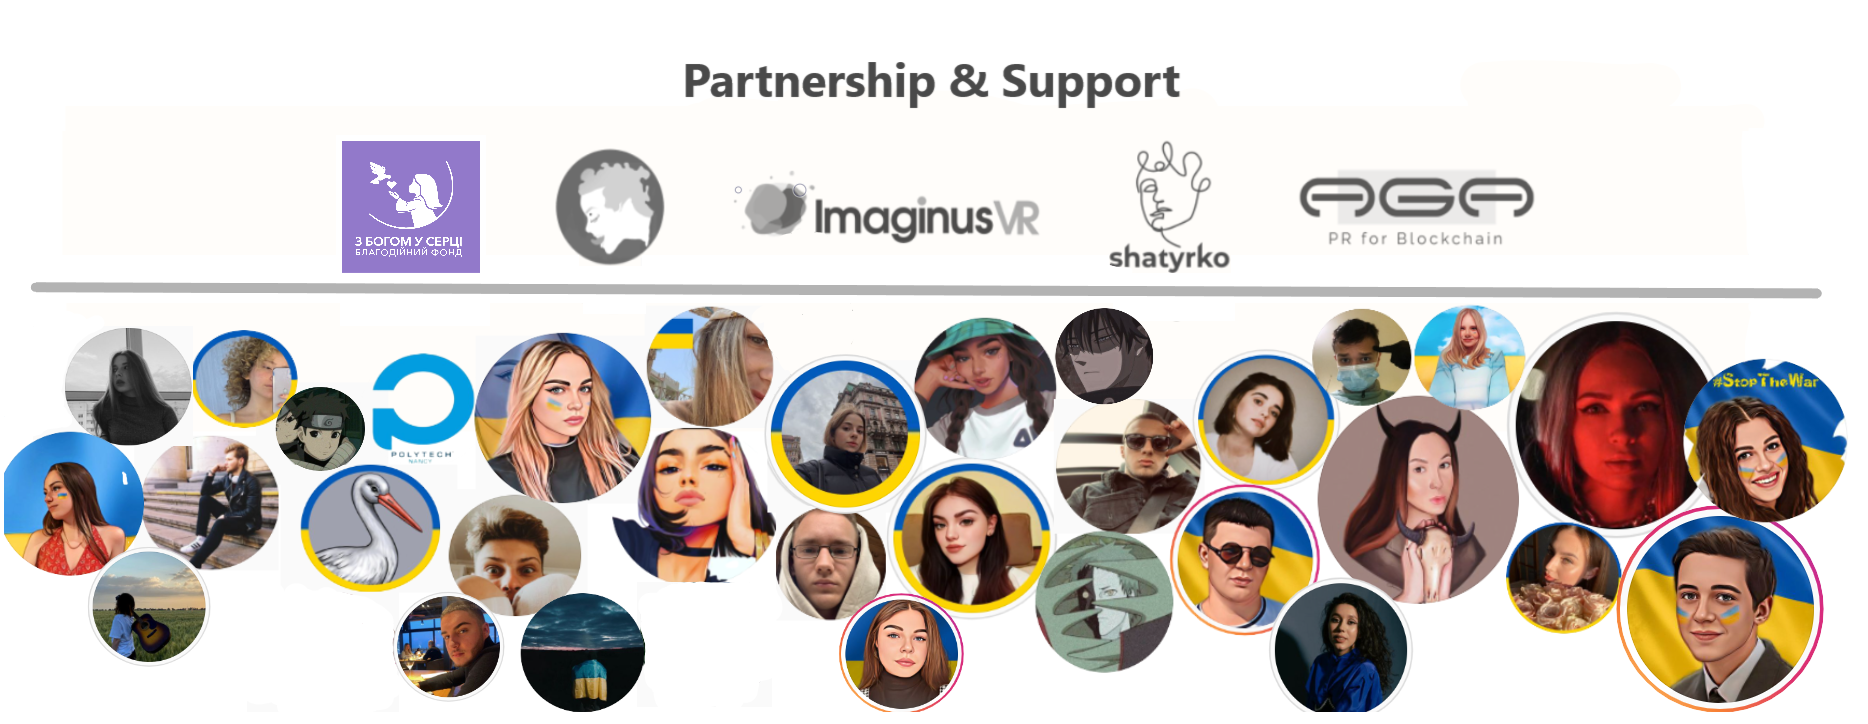
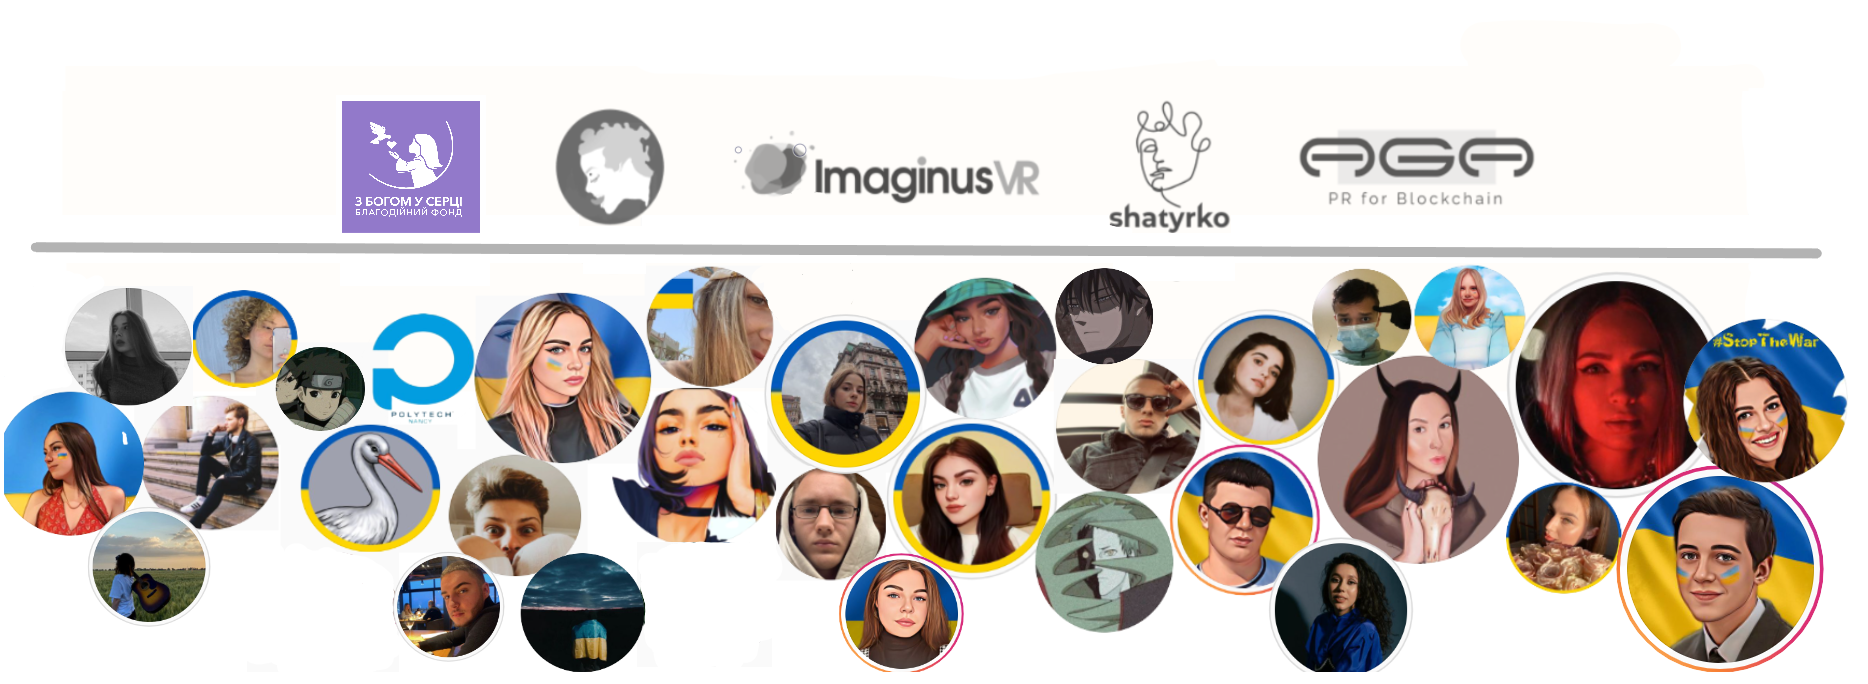
Add files via upload

diff --git a/index.html b/index.html
@@ -296,15 +296,36 @@
                 <div class="container">
                     
                     <div class="row">
-                    
+                        <div class="col-10 col-md-10 col-lg-7">
+                            <div class="container">
+                                <div class="row">
+                                    <div class="col-2"><img src="#" alt="" style="width:100%;"></div>
+                                    <div class="col-4 py-2"><img class="mx-auto rounded" src="images/birdn1.png" alt="" style="width:100%;"></div>
+                                    <div class="col-4 py-2"><img class="mx-auto rounded" src="images/birdn2.png" alt="" style="width:100%;"></div>
+                                    <div class="col-2"><img src="#" alt="" style="width:100%;"></div>
+                                    <div class="col-4 py-3"><img class="mx-auto rounded" src="images/birdn3.png" alt="" style="width:100%;"></div>
+                                    <div class="col-4 py-3"><img class="mx-auto rounded" src="images/birdn4.png" alt="" style="width:100%;"></div>
+                                    <div class="col-4 py-3"><img class="mx-auto rounded" src="images/birdn5.png" alt="" style="width:100%;"></div>
+                                </div>
+                            </div>
+                        </div>
+                        <div class="col-10 col-md-10 col-lg-5 align-items-center">
+                            <h3>Main objective or how it works</h3> <br>
+                            <p>
+                                In Lutsk we have some battalions which are not equipped enough, so technically speaking, the country can provide them only with weapons and they asked volunteer centers to support them. 
 
+                            </p>
+                            <p>
+                                Basically, we will complete (buy) all the required items on the list, deliver all of them to the foundation center, where soldiers will be equipped. The same for children, we are looking for useful humanitarian aid in EU and provide those in need. This achieves our main goal of helping the Ukrainian people and army. 
+                            </p>
+                        </div>
 
 
                     </div>
                 </div>
             </section>
 
-            <section class="page-section bg-light" id="questions">
+            <section class=" bg-light" id="questions">
                 <div class="text-center">
                     <h2 class="section-heading text-uppercase">PARTNERSHIP & SUPPORT</h2>
                     <svg width="360" height="5" viewBox="0 0 360 5" fill="none" xmlns="http://www.w3.org/2000/svg">
@@ -315,7 +336,9 @@
                 <div class="container">
                     
                     <div class="row">
-                    
+                        <div class="col-12 col-lg-12">
+                            <img src="images/Partnership.png" alt="" style="width:100%;">
+                        </div>
 
 
 
@@ -323,5 +346,50 @@
                 </div>
             </section>
             
+            <footer class="bg-dark text-center text-white">
+                <div class="container p-4 pb-0">
+                  <!-- Section: Social media -->
+                  <section class="mb-4">
+
+                    <a class="btn btn-outline-light btn-floating m-1" href="#!" role="button"
+                      ><i class="fab fa-facebook-f"></i
+                    ></a>
+              
+
+                    <a class="btn btn-outline-light btn-floating m-1" href="#!" role="button"
+                      ><i class="fab fa-twitter"></i
+                    ></a>
+              
+
+                    <a class="btn btn-outline-light btn-floating m-1" href="#!" role="button"
+                      ><i class="fab fa-google"></i
+                    ></a>
+              
+
+                    <a class="btn btn-outline-light btn-floating m-1" href="#!" role="button"
+                      ><i class="fab fa-instagram"></i
+                    ></a>
+              
+
+                    <a class="btn btn-outline-light btn-floating m-1" href="#!" role="button"
+                      ><i class="fab fa-linkedin-in"></i
+                    ></a>
+              
+
+                    <a class="btn btn-outline-light btn-floating m-1" href="#!" role="button"
+                      ><i class="fab fa-github"></i
+                    ></a>
+                  </section>
+
+                </div>
+
+              
+
+                <div class="text-center p-3" style="background-color: rgba(0, 0, 0, 0.2);">
+                  © 2022 Copyright:
+                  <a class="text-white" href="#">STORK OF FREEDOM</a>
+                </div>
+
+              </footer>
 </body>
 </html>

diff --git a/css/styles.css b/css/styles.css
@@ -11316,15 +11316,9 @@ p {
   margin-bottom: 4rem;
 }
 
-@media (min-width: 768px) {
-  section {
-    padding: 9rem 0;
-  }
-}
 .btn-xl {
   padding: 0.7rem 1rem;
   font-family: "Montserrat", -apple-system, BlinkMacSystemFont, "Segoe UI", Roboto, "Helvetica Neue", Arial, sans-serif, "Apple Color Emoji", "Segoe UI Emoji", "Segoe UI Symbol", "Noto Color Emoji";
-  font-size: 1.125rem;
   font-weight: 700;
 }
 
@@ -11424,7 +11418,7 @@ header.masthead .masthead-subheading {
   font-family: "Roboto Slab", -apple-system, BlinkMacSystemFont, "Segoe UI", Roboto, "Helvetica Neue", Arial, sans-serif, "Apple Color Emoji", "Segoe UI Emoji", "Segoe UI Symbol", "Noto Color Emoji";
 }
 header.masthead .masthead-heading {
-  font-size: 3.25rem;
+  font-size: 2.5rem;
   font-weight: 700;
   line-height: 3.25rem;
   margin-bottom: 2rem;
